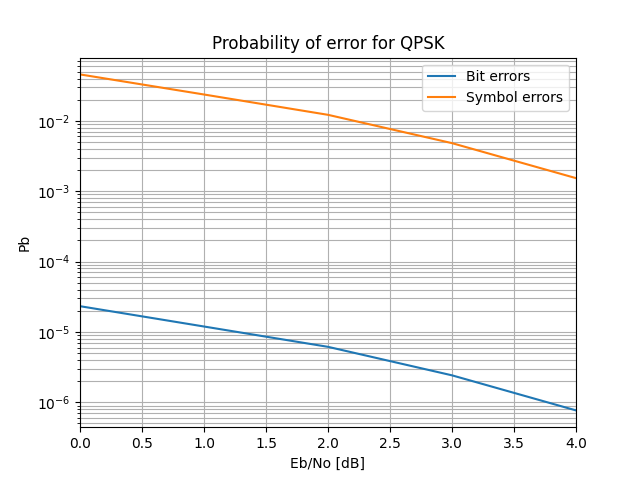
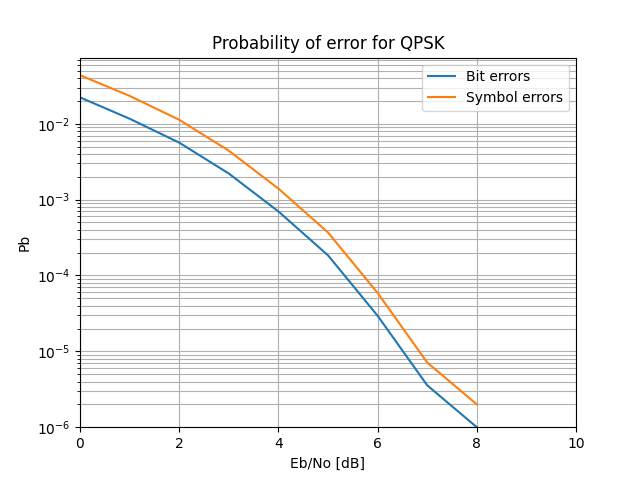
Comms 4 QPSK not right

Changed region(s): [[0.0625, 0.125, 0.9062, 0.9375], [0.875, 0.9062, 0.9375, 0.9375]]

diff --git a/Comms/Homework4/HW4.md b/Comms/Homework4/HW4.md
@@ -1,3 +1,44 @@
+Calvin Passmore
+
+ECE 5660
+
+# Homework 4
+
+## Problem 3
+
+(a)
+
+See the attached code. For each constellation type, the LUT, symbol energy, parallel to serial, and slicing had to be done individually. The algorithm to simulate the bits was put into a parent class so that each child class could use the features and data points directly.
+
+(b)
+
+![](./BPSK.png)
+
+This is comparable to Figure 6.1.3 in the book. The image in the book seems to be more smooth, indicating they likely used more points to plot it, the points lie in the same general area.
+
+The symbol errors are exactly the same as the bit errors, so only one plot is visible on the graph even though both are plotted. This is due to the one-to-one mapping of symbols to bits in BPSK.
+
+(c)
+
+![](./QPSK.png)
+
+These plots seem to drop off faster than the ones in the book, going under 10e-6 probability of error at Eb/N0 = 4, there is randomness in the generation of the plots.
+
+(d)
+
+![](./8PSK.png)
+
+The plots are essentially the same as the ones in the book. There is slight variation due to the randomness of the simulation and the fact the book seems to use more plot points, providing a more smooth and more accurate curve.
+
+(f)
+
+![](./CCITT.png)
+
+This plot is essentially the same as the book. There is a slight variation due to the randomness of the simulation.
+
+## Code
+
+```py
 from math import sqrt, cos, sin, floor, ceil
 import numpy as np
 from numpy.random import rand
@@ -31,10 +72,15 @@ class SignalSpace:
 
     def simulate_single_symbol(self, std_dev, bits):
         """std_dev is the calculated standard deviation and bits is one symbol worth of bits, returns number of bit errors and symbol errors"""
+        # print(f"Simulating single symbol {self.bits_per_symbol}")
         assert len(bits) == self.bits_per_symbol
         sym = self.bits_to_amp(bits)
-        sym = [amp + self.random_noise(std_dev) for amp in sym] # Add noise
+        # print(f"Amplitude {sym}")
+        for idx in range(self.num_axis):
+            sym[idx] += self.random_noise(std_dev)
+        # print(f"Noise added {sym}")
         bits_hat = self.slice(sym)
+        # print([bits_hat, bits])
         bit_err = 0
         sym_err = 0
         for idx in range(len(bits)):
@@ -60,7 +106,7 @@ class SignalSpace:
         plt.grid(which='both', axis='both')
         plt.yscale('log')
         plt.xlabel("Eb/No [dB]")
-        plt.xlim(0, 15)
+        plt.xlim(0, 10)
         plt.ylabel("Pb")
         plt.ylim(1e-6, 0)
         plt.title(f"Probability of error for {self.name}")
@@ -148,7 +194,7 @@ class QPSK(SignalSpace):
 
     def set_symbol_energy(self):
         self.Es = 2 * self.Eb
-        self.A = self.Es / sqrt(2)
+        self.A = sqrt(self.Es)
         self.set_LUT()
 
     def bits_to_amp(self, bits: list):
@@ -224,8 +270,7 @@ class CCITT(SignalSpace):
         sym_hat = distances.index(min(distances))
         return [(sym_hat >> 2) & 1, (sym_hat >> 1) & 1, sym_hat & 1]
 
-signal_spaces = [QPSK()]
-# signal_spaces = [BPSK(), QPSK(), EightPSK(), CCITT()]
+signal_spaces = [BPSK(), QPSK(), EightPSK(), CCITT()]
 
 for signal_space in signal_spaces:
     signal_space.simulate(dBRangeStart=0, dBRangeEnd=15, ErrCountTarget=1e2, ErrStopLimit=1e-6)
@@ -244,3 +289,4 @@ plt.ylim(1e-6, 0)
 plt.title("Probability of Error")
 plt.legend([space.name for space in signal_spaces])
 plt.savefig('joined.png')
+```
